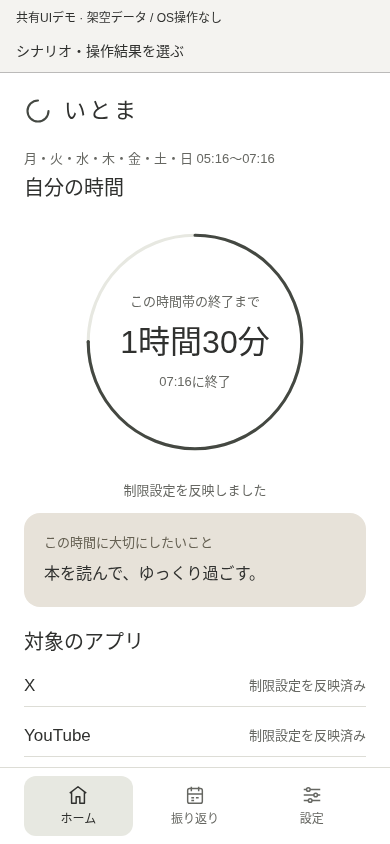
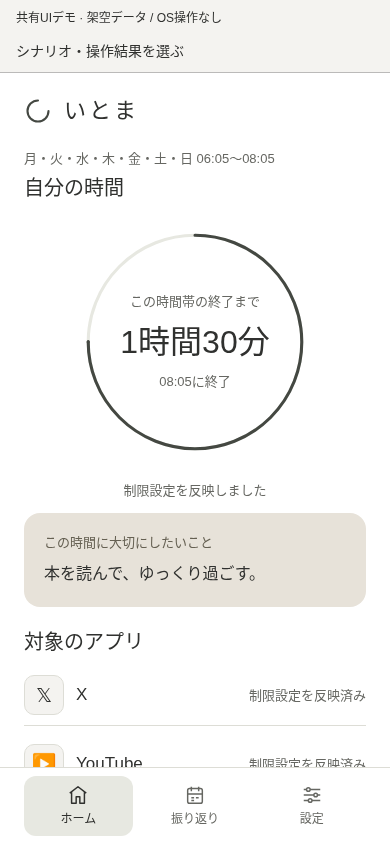
fix: share clear full-row app selection between product and demo

diff --git a/src/components/flow/applications.tsx b/src/components/flow/applications.tsx
@@ -1,29 +1,36 @@
 import { requireNativeViewManager } from 'expo-modules-core';
 import { type ComponentType, memo, useContext, useState } from 'react';
-import { type ViewProps, Pressable, Text } from 'react-native';
+import { type ViewProps, StyleSheet, Text, View } from 'react-native';
 import { useFlowTheme } from './ui';
-import { ApplicationLabels } from '@/runtime/application-labels';
+import { ApplicationLabels, ApplicationSymbols } from '@/runtime/application-labels';
 
 type Props = ViewProps & { selectionRef: string; targetRef: string; source: 'product'; refreshKey: number;
   selectable: boolean; selected: boolean; onSelect?: () => void; onContentSize: (event: { nativeEvent: { height: number } }) => void };
 let native: ComponentType<Props> | undefined;
-/** Apple provides both the visible app identity and its accessible button name. Events are bools. */
-export const Applications = memo(function Applications({ selectionRef, targetRef = '', count = 1, refreshKey, selected = false, onSelect }: {
-  selectionRef: string; targetRef?: string; count?: number; refreshKey: number; selected?: boolean; onSelect?: () => void;
+/** Identity display only. Apple tokens stay native; ApplicationChoice owns the selection interaction. */
+export const Applications = memo(function Applications({ selectionRef, targetRef = '', count = 1, refreshKey }: {
+  selectionRef: string; targetRef?: string; count?: number; refreshKey: number;
 }) {
   const theme = useFlowTheme();
-  const labels = useContext(ApplicationLabels);
+  const labels = useContext(ApplicationLabels), symbols = useContext(ApplicationSymbols);
   const [height, setHeight] = useState(Math.max(48, count * 56));
   const label = labels?.(selectionRef, targetRef);
-  if (label) return onSelect ? <Pressable accessibilityRole="radio" accessibilityLabel={label} accessibilityState={{ selected }} onPress={onSelect} style={{ minHeight: 48, justifyContent: 'center' }}>
-    <Text style={{ color: theme.text, fontSize: 17 }}>{selected ? '✓ ' : ''}{label}</Text>
-  </Pressable> : <Text style={{ color: theme.text, fontSize: 17 }}>{label}</Text>;
+  if (label) return <View style={styles.previewIdentity}>
+    {!!symbols?.(selectionRef, targetRef) && <View accessible={false} accessibilityElementsHidden aria-hidden style={[styles.previewIcon, { backgroundColor: theme.background, borderColor: theme.line }]}>
+      <Text style={{ color: theme.text, fontSize: 20 }}>{symbols(selectionRef, targetRef)}</Text>
+    </View>}
+    <Text style={[styles.previewName, { color: theme.text }]}>{label}</Text>
+  </View>;
   try { native ??= requireNativeViewManager<Props>('ItomaNative'); } catch { /* Web/old binaries render a safe count only. */ }
-  if (!native) return onSelect ? <Pressable accessibilityRole="radio" accessibilityState={{ selected }} onPress={onSelect} style={{ minHeight: 48, justifyContent: 'center' }}>
-    <Text style={{ color: theme.text, fontSize: 17 }}>{selected ? '✓ ' : ''}選択したアプリ（{count}件）</Text>
-  </Pressable> : <Text style={{ color: theme.text, fontSize: 17 }}>選択したアプリ（{count}件）</Text>;
+  if (!native) return <Text style={{ color: theme.text, fontSize: 17 }}>選択したアプリ（{count}件）</Text>;
   const Native = native;
   return <Native source="product" selectionRef={selectionRef} targetRef={targetRef} refreshKey={refreshKey}
-    selectable={!!onSelect && !!targetRef} selected={selected} onSelect={onSelect} style={{ width: '100%', height }}
+    selectable={false} selected={false} style={{ width: '100%', height }}
     onContentSize={({ nativeEvent }) => { if (Number.isFinite(nativeEvent.height) && nativeEvent.height > 0 && nativeEvent.height <= 30000) setHeight(Math.ceil(nativeEvent.height)); }} />;
+});
+
+const styles = StyleSheet.create({
+  previewIdentity: { flexDirection: 'row', alignItems: 'center', gap: 12 },
+  previewIcon: { width: 40, height: 40, borderRadius: 10, borderWidth: 1, alignItems: 'center', justifyContent: 'center', flexShrink: 0 },
+  previewName: { fontSize: 17, lineHeight: 26, flexShrink: 1 },
 });

diff --git a/tests/application-choice.test.tsx b/tests/application-choice.test.tsx
@@ -1,0 +1,48 @@
+import { useState } from 'react';
+import { View } from 'react-native';
+import { fireEvent, render, screen } from '@testing-library/react-native';
+import { ApplicationChoice } from '../src/components/flow/application-choice';
+import { ApplicationLabels, ApplicationSymbols } from '../src/runtime/application-labels';
+jest.mock('../src/global.css', () => ({}));
+let mockNativeProps: Record<string, unknown> | undefined;
+jest.mock('expo-modules-core', () => ({ ...jest.requireActual('expo-modules-core'), requireNativeViewManager: () => (props: Record<string, unknown>) => {
+  mockNativeProps = props;
+  return require('react').createElement(require('react-native').Text, null, 'Appleが表示するアプリ');
+} }));
+
+function Choices() {
+  const [selected, select] = useState('');
+  return <ApplicationLabels.Provider value={(_, target) => target.toUpperCase()}>
+    <ApplicationSymbols.Provider value={(_, target) => target === 'x' ? '𝕏' : '▶'}>
+      <View accessibilityRole="radiogroup" accessibilityLabel="解除するアプリ">
+        {['x', 'youtube', 'blocked'].map(target => <ApplicationChoice key={target} selectionRef="sample" targetRef={target} refreshKey={0}
+          selected={selected === target} disabled={target === 'blocked'} detail={selected === target ? '選択中' : target === 'blocked' ? '現在、一時解除できません。' : 'タップして選択'} onSelect={() => select(target)} />)}
+      </View>
+    </ApplicationSymbols.Provider>
+  </ApplicationLabels.Provider>;
+}
+
+test('shared row exposes unchecked radios, selects from its detail or indicator and keeps a single choice', async () => {
+  await render(<Choices />);
+  expect(screen.getByRole('radio', { name: 'X' })).not.toBeChecked();
+  expect(screen.getByTestId('application-choice-indicator-x', { includeHiddenElements: true })).toBeTruthy();
+  await fireEvent.press(screen.getAllByText('タップして選択')[0]);
+  expect(screen.getByRole('radio', { name: 'X' })).toBeChecked();
+  expect(screen.getByText('選択中')).toBeTruthy();
+  await fireEvent.press(screen.getByTestId('application-choice-indicator-youtube', { includeHiddenElements: true }));
+  expect(screen.getByRole('radio', { name: 'X' })).not.toBeChecked();
+  expect(screen.getByRole('radio', { name: 'YOUTUBE' })).toBeChecked();
+  await fireEvent.press(screen.getByRole('radio', { name: 'BLOCKED' }));
+  expect(screen.getByRole('radio', { name: 'BLOCKED' })).not.toBeChecked();
+  expect(screen.getByRole('radio', { name: 'BLOCKED' })).toBeDisabled();
+  expect(screen.getByRole('radio', { name: 'YOUTUBE' })).toBeChecked();
+});
+
+test('native identity stays display-only; the shared outer row owns a single selection callback', async () => {
+  const select = jest.fn();
+  await render(<ApplicationChoice selectionRef="opaque-selection" targetRef="opaque-target" refreshKey={0} selected={false} disabled={false} detail="タップして選択" onSelect={select} />);
+  expect(mockNativeProps).toMatchObject({ source: 'product', selectable: false, selected: false });
+  expect(mockNativeProps?.onSelect).toBeUndefined();
+  await fireEvent.press(screen.getByText('Appleが表示するアプリ'));
+  expect(select).toHaveBeenCalledTimes(1);
+});

diff --git a/src/components/flow/unlock.tsx b/src/components/flow/unlock.tsx
@@ -3,6 +3,7 @@ import { router, useFocusEffect } from 'expo-router';
 import { useCallback, useState } from 'react';
 import { useScreenTime } from '@/state/screen-time';
 import { Applications } from './applications';
+import { ApplicationChoice } from './application-choice';
 import { back, home, useDraftGuard } from './navigation';
 import { endTime, ruleText } from './presentation';
 import { ruleTitle } from './rule-identity';
@@ -44,14 +45,18 @@ export function UnlockScreen() {
   return <FlowScreen title="必要な分だけ、一時解除" onBack={back}>
     <Body>使う目的と時間を、いったん言葉に。解除するかどうかは、内容を確認してから決められます。</Body>
     <View style={flowStyles.section}><Heading>解除するアプリ</Heading>
-      {state.snapshot?.targets.map((target) => <Panel key={target.ref}>
-        <Applications selectionRef={target.selectionRef} targetRef={target.ref} refreshKey={state.refreshKey}
-          selected={draft.targetRef === target.ref} onSelect={available && target.unlockable && !state.busy ? () => {
+      <Body muted>一時解除するアプリを1つ選んでください。</Body>
+      <View accessibilityRole="radiogroup" accessibilityLabel="解除するアプリ" style={flowStyles.section}>
+        {state.snapshot?.targets.map((target) => <ApplicationChoice key={target.ref}
+          selectionRef={target.selectionRef} targetRef={target.ref} refreshKey={state.refreshKey}
+          selected={draft.targetRef === target.ref} disabled={!available || !target.unlockable || !!state.busy}
+          detail={target.grantCommandID ? '一時解除の要求があります。状況を確認できます。'
+            : !available || !target.unlockable ? '現在、一時解除できません。'
+              : draft.targetRef === target.ref ? '選択中' : 'タップして選択'}
+          onSelect={() => {
             state.setUnlockExitAllowed(false); state.setUnlockDraft({ ...draft, targetRef: target.ref }); state.setUnlockReview(undefined);
-          } : undefined} />
-        <Body muted>{target.unlockable ? draft.targetRef === target.ref ? '✓ このアプリを選択中' : 'このアプリを選べます'
-          : target.grantCommandID ? 'このアプリには進行中の要求があります。状況を確認できます。' : '現在、一時解除できる制限対象ではありません。'}</Body>
-      </Panel>)}
+          }} />)}
+      </View>
       {!state.snapshot?.targets.length && <Body muted>解除できる対象がありません。ホームで現在の時間帯と許可を確認できます。</Body>}
     </View>
     <Field label="いま使う理由" testID="unlock-reason" value={draft.reason} multiline placeholder="自分の言葉で入力してください"

diff --git a/src/components/flow/application-choice.tsx b/src/components/flow/application-choice.tsx
@@ -1,0 +1,35 @@
+import { useContext } from 'react';
+import { Pressable, StyleSheet, Text, View } from 'react-native';
+import { ApplicationLabels } from '@/runtime/application-labels';
+import { Applications } from './applications';
+import { useFlowTheme } from './ui';
+
+/** Selection belongs to the shared row; Apple/native or preview only supplies its identity. */
+export function ApplicationChoice({ selectionRef, targetRef, refreshKey, selected, disabled, detail, onSelect }: {
+  selectionRef: string; targetRef: string; refreshKey: number; selected: boolean;
+  disabled: boolean; detail: string; onSelect: () => void;
+}) {
+  const theme = useFlowTheme(), labels = useContext(ApplicationLabels);
+  return <Pressable accessibilityRole="radio" accessibilityLabel={labels?.(selectionRef, targetRef)}
+    accessibilityHint={detail} accessibilityState={{ checked: selected, disabled }} aria-checked={selected} aria-disabled={disabled} disabled={disabled} onPress={onSelect}
+    testID={`application-choice-${targetRef}`} style={({ pressed }) => [styles.row, {
+      borderColor: selected ? theme.accent : theme.line,
+      backgroundColor: selected ? theme.soft : theme.surface,
+      opacity: pressed && !disabled ? 0.75 : 1,
+    }]}>
+    <View pointerEvents="none" style={styles.identity}>
+      <Applications selectionRef={selectionRef} targetRef={targetRef} refreshKey={refreshKey} />
+      <Text accessible={false} style={[styles.detail, { color: theme.muted }]}>{detail}</Text>
+    </View>
+    <View accessible={false} accessibilityElementsHidden aria-hidden importantForAccessibility="no-hide-descendants" pointerEvents="none"
+      testID={`application-choice-indicator-${targetRef}`} style={[styles.radio, { borderColor: disabled ? theme.muted : theme.accent }]}>
+      {selected && <View style={[styles.dot, { backgroundColor: disabled ? theme.muted : theme.accent }]} />}
+    </View>
+  </Pressable>;
+}
+const styles = StyleSheet.create({
+  row: { minHeight: 88, width: '100%', borderWidth: 2, borderRadius: 16, padding: 16, flexDirection: 'row', alignItems: 'center', gap: 16 },
+  identity: { flex: 1, minWidth: 0, gap: 6 }, detail: { fontSize: 14, lineHeight: 22 },
+  radio: { width: 24, height: 24, flexShrink: 0, borderWidth: 2, borderRadius: 12, alignItems: 'center', justifyContent: 'center' },
+  dot: { width: 12, height: 12, borderRadius: 6 },
+});

diff --git a/tests/main-flow.test.tsx b/tests/main-flow.test.tsx
@@ -347,7 +347,7 @@ test('one entry → initially unselected app → free text → editable full rev
   expect(screen.getAllByRole('button', { name: '一時解除する' })).toHaveLength(1);
   await press('一時解除する');
   expect(screen.getByRole('button', { name: '解除内容を確認する' })).toBeDisabled();
-  await press('テスト用アプリA');
+  await fireEvent.press(screen.getByRole('radio', { name: /テスト用アプリA/ }));
   await fireEvent.changeText(screen.getByLabelText('いま使う理由'), ' \n ');
   expect(screen.getByRole('button', { name: '解除内容を確認する' })).toBeDisabled();
   await fireEvent.changeText(screen.getByLabelText('いま使う理由'), 'synthetic purpose\nsecond line');
@@ -383,7 +383,7 @@ test('dirty cancellation keeps text on Keep, and confirmed discard does not requ
 test('failed accepted grants expose retry of the same command and original absolute upper bound', async () => {
   const b = backend(true, true);
   await render(<ScreenTimeProvider client={b.client}><Pages /></ScreenTimeProvider>);
-  await press('一時解除する'); await press('テスト用アプリA');
+  await press('一時解除する'); await fireEvent.press(screen.getByRole('radio', { name: /テスト用アプリA/ }));
   await fireEvent.changeText(screen.getByLabelText('いま使う理由'), 'synthetic retry');
   await press('解除内容を確認する'); await press('理由を保存して一時解除する');
   expect(screen.getByText('解除を完了できませんでした')).toBeTruthy();
@@ -397,7 +397,7 @@ test('failed accepted grants expose retry of the same command and original absol
 test('continuing restrictions from input and confirmation preserves text until explicit discard and never accepts a grant', async () => {
   const b = backend(), alert = jest.spyOn(Alert, 'alert');
   await render(<ScreenTimeProvider client={b.client}><Pages /></ScreenTimeProvider>);
-  await press('一時解除する'); await press('テスト用アプリA');
+  await press('一時解除する'); await fireEvent.press(screen.getByRole('radio', { name: /テスト用アプリA/ }));
   await fireEvent.changeText(screen.getByLabelText('いま使う理由'), 'synthetic continued restriction');
   await press('制限を続ける');
   await act(async () => { alert.mock.calls.at(-1)?.[2]?.[0].onPress?.(); });

diff --git a/src/demo/demo-providers.tsx b/src/demo/demo-providers.tsx
@@ -2,7 +2,7 @@ import { type ReactNode, useState } from 'react';
 import { router } from 'expo-router';
 import { Pressable, ScrollView, StyleSheet, Text, View } from 'react-native';
 import { ProductProviders } from '@/runtime/product-providers';
-import { ApplicationLabels } from '@/runtime/application-labels';
+import { ApplicationLabels, ApplicationSymbols } from '@/runtime/application-labels';
 import { GraphiteColors } from '@/constants/theme';
 import { useColorScheme } from '@/hooks/use-color-scheme';
 import { createDemoSession, demoScenarios, readDemoScenario, type DemoOutcome } from './session';
@@ -33,7 +33,7 @@ export function DemoProviders({ children }: { children: ReactNode }) {
         <Text style={[styles.caption, { color: theme.muted }]}>理由はタブ内メモリーのみ。再読込で消えます。ルールの追加・曜日/時間編集・対象選び直し・オンボーディングは未対応で、完了を装いません。時間集計も未提供です。iOSとWebの表示・キーボード・操作感には差があります。</Text>
       </ScrollView>}
     </View>
-    <ApplicationLabels.Provider value={session.applicationLabel}><ProductProviders clients={session.clients}>{children}</ProductProviders></ApplicationLabels.Provider>
+    <ApplicationLabels.Provider value={session.applicationLabel}><ApplicationSymbols.Provider value={session.applicationSymbol}><ProductProviders clients={session.clients}>{children}</ProductProviders></ApplicationSymbols.Provider></ApplicationLabels.Provider>
   </View>;
 }
 const styles = StyleSheet.create({ banner: { paddingHorizontal: 16, paddingTop: 8, borderBottomWidth: StyleSheet.hairlineWidth, borderBottomColor: '#8888' },

diff --git a/src/demo/session.ts b/src/demo/session.ts
@@ -11,7 +11,7 @@ export function readDemoScenario(value: string | null): DemoScenario {
 }
 const uuid = (n: number) => `00000000-0000-4000-8000-${String(n).padStart(12, '0')}`;
 const ruleID = uuid(1), selectionID = uuid(2);
-export const demoApplications = [{ ref: uuid(3), name: 'X' }, { ref: uuid(4), name: 'YouTube' }, { ref: uuid(5), name: 'Instagram' }];
+export const demoApplications = [{ ref: uuid(3), name: 'X', symbol: '𝕏' }, { ref: uuid(4), name: 'YouTube', symbol: '▶' }, { ref: uuid(5), name: 'Instagram', symbol: '◎' }];
 
 type Options = { scenario?: DemoScenario; now?: () => number };
 /** Contract-shaped in-memory port. A UI simulator, never a Screen Time/OS emulator. */
@@ -145,6 +145,7 @@ export function createDemoSession({ scenario = 'normal', now = Date.now }: Optio
   };
   return { clients,
     applicationLabel: (selection: string, target: string) => selection !== selectionID ? undefined : target ? demoApplications.find(app => app.ref === target)?.name : demoApplications.map(app => app.name).join('・'),
+    applicationSymbol: (selection: string, target: string) => selection === selectionID ? demoApplications.find(app => app.ref === target)?.symbol : undefined,
     setOutcome(value: DemoOutcome) { outcome = value; },
   };
 }

diff --git a/src/runtime/application-labels.ts b/src/runtime/application-labels.ts
@@ -1,3 +1,6 @@
 import { createContext } from 'react';
 /** Optional external identity renderer's data. Native still uses Apple's saved-selection view. */
 export const ApplicationLabels = createContext<((selectionRef: string, targetRef: string) => string | undefined) | undefined>(undefined);
+
+/** Preview glyphs are supplied by the demo, never inferred from real Apple tokens. */
+export const ApplicationSymbols = createContext<((selectionRef: string, targetRef: string) => string | undefined) | undefined>(undefined);

diff --git a/docs/shared-demo-runtime.md b/docs/shared-demo-runtime.md
@@ -81,3 +81,13 @@ EXPO_PUBLIC_ITOMA_DEMO=1 node node_modules/expo/bin/cli export --platform ios --
 ```
 
 静的サーバーでdeep linkを試すときは、Cloudflare Assetsと同じように `/history` を `/history.html` へ解決する必要がある。Python標準http.serverだけではそのdeep linkの直接再読込は404になる。本体のclient-side遷移と、配信側のclean URL解決を区別して確認する。
+
+## 一時解除のアプリ選択行（本人指定の改修）
+
+`ApplicationChoice` が本体とdemoで共通の選択行を担当する。行全体のPressable、右端のラジオ、選択中の枠・背景と文言、checked/disabled状態をまとめる。未選択でも○を見せる。説明文・余白・ラジオの付近を押しても、同じ1つの選択処理が動く。選び直しでは理由を消さず、対象と確認内容だけを更新する。
+
+`Applications` は識別表示だけに絞り、nativeにはselectable=falseを渡す。Appleのアイコン・名前をJSへ取り出さず、ネストしたnativeボタンとの二重発火を避ける。WebはApplicationLabelsとApplicationSymbolsからサンプル名と代替グリフを供給する（公式アプリアイコンの画像ではない）。外枠とラジオは本体と同じReact Native部品。
+
+選択不可の行にも理由を表示し、押しても選べない。Webにはaria-checked/aria-disabledを明示し、nativeには同じ値のaccessibilityStateを渡す。nativeではAppleの識別表示を含む名前の読み上げ・タップ領域・文字拡大を実機確認する必要がある。Swift/ABIに変更はないが、JSの外側Pressableへの集約を実機検証済みとは扱わない。
+
+選択行の単体テスト、余白/端を押すWeb操作、枠/背景の変化、選び直しても理由が残ること、disabled、Dark/狭幅と既存フローを検証。記録・解除のドメイン仕様は変更しない。

diff --git a/docs/ui-guidelines.md b/docs/ui-guidelines.md
@@ -126,7 +126,7 @@ type UnlockDraft = {
 
 ### 5.1 選択と入力
 
-P01を採用する場合、未選択で開始する単一選択リストとする。各行はアプリ名・現在の状態・適用ルール・解除できない理由を持つ。ラジオの選択状態をVoiceOverへ渡す。アプリ名やアイコンが取得できない場合のnative代替表示を使い、推測でX等に置き換えない。
+P01を採用する場合、未選択で開始する単一選択リストとする。各行はアプリ名・現在の状態・適用ルール・解除できない理由を持つ。ラジオの選択状態をVoiceOverへ渡す。 本人指定（2026-11-15）の改修では、行全体を単一の選択領域とし、右端の未選択○／選択済みの中点、選択中の枠・背景・文言を共有部品で表示する。アプリ名・アイコンはnativeではAppleの表示を維持し、選択操作は外側の行へ集約して二重の操作領域を作らない。Webデモの識別表示だけをfixtureに差し替える。iOSでの名前の読み上げとhit領域は実機で確認する。アプリ名やアイコンが取得できない場合のnative代替表示を使い、推測でX等に置き換えない。
 
 制限中・操作可能な対象だけ選択できる。一時解除不可、Pending/Active/Uncertainな同対象は選択不可とし、「この時間帯は一時解除できません」「反映を確認中です」「解除状況を見る」など、理由または状況確認を行に残す。表示から無言で消さない。時間外の対象へ新grantを付与しない。
 
